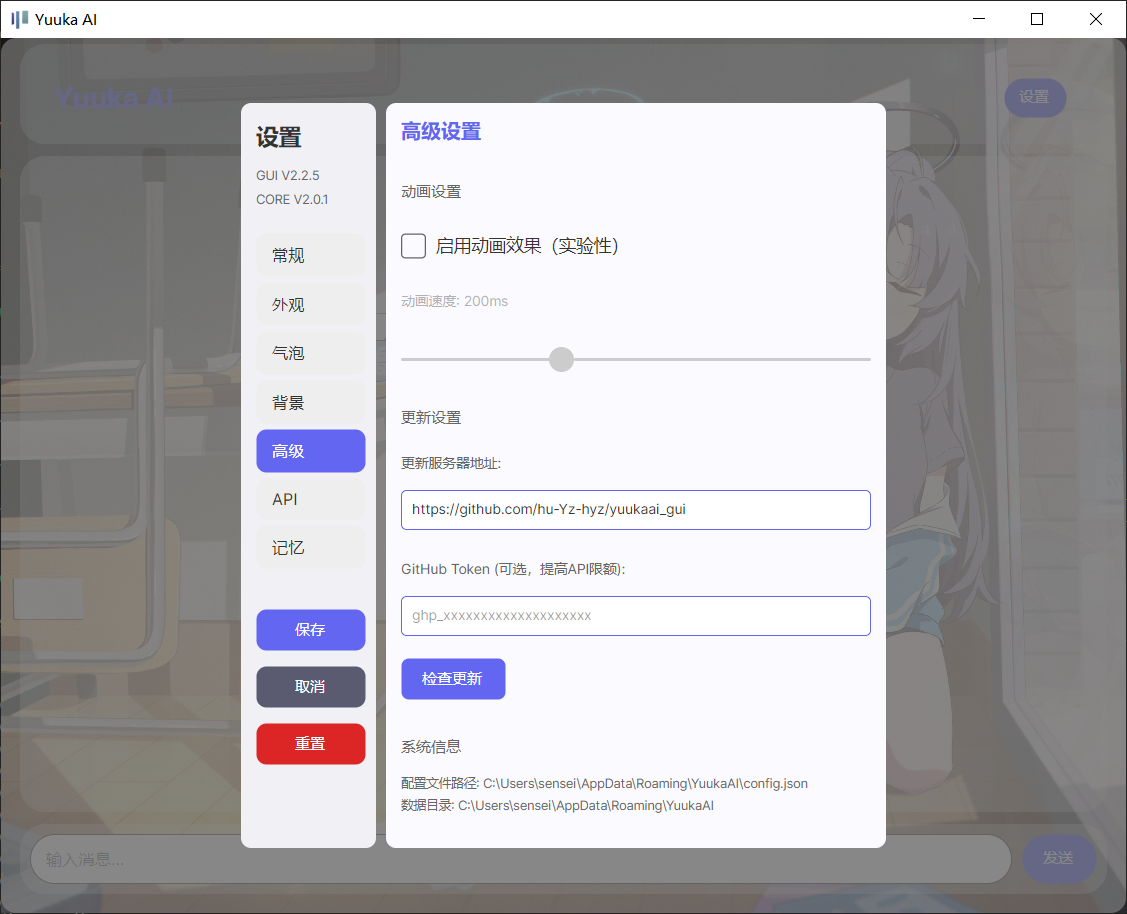
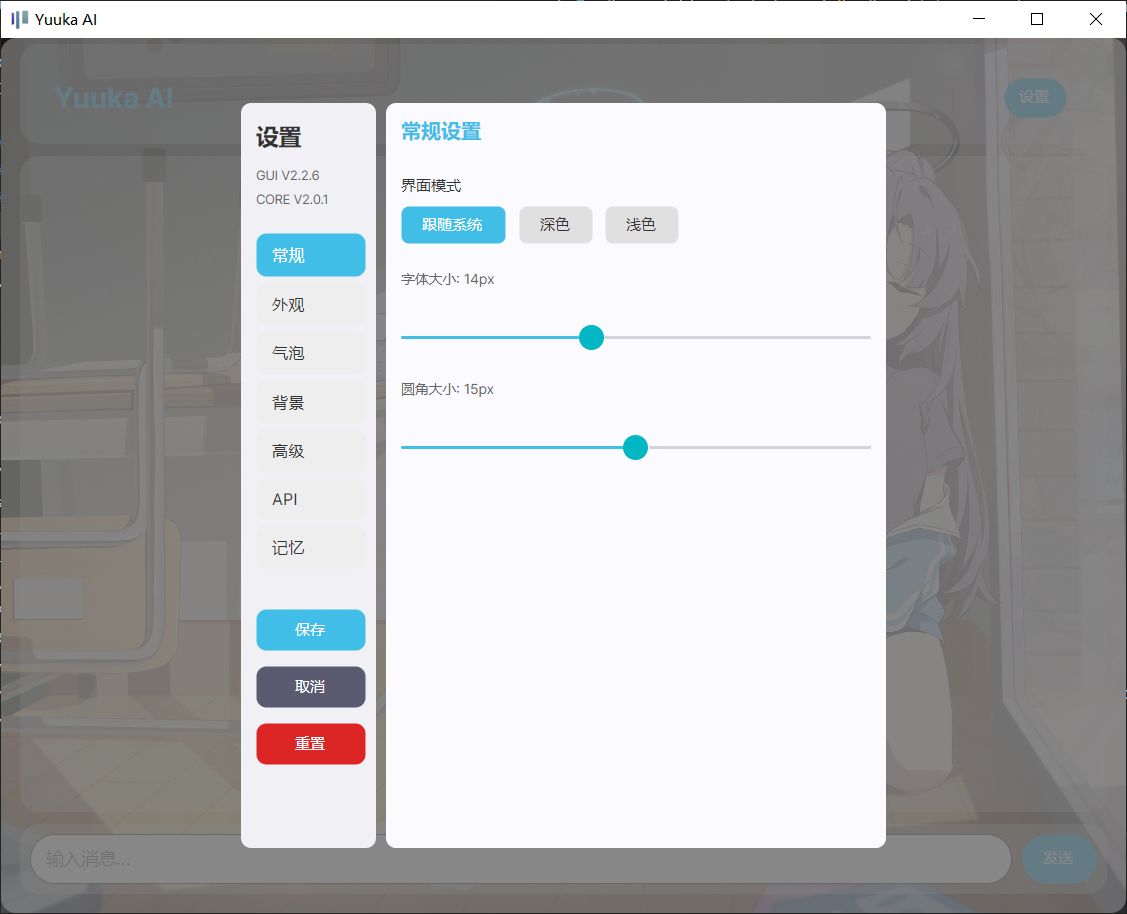
CORE V2.0.1 |GUI V2.2.6 |zh-CN

diff --git a/Core/Client.cs b/Core/Client.cs
@@ -135,7 +135,7 @@ namespace yuukaaigui.Core
                 }
                 else
                 {
-                    throw new Exception($"API请求失败，可能是过时的版本 也可能是自定义APIKEY错误 当前CORE版本V2.0.1 GUI版本 V2.2.5 : {response.StatusCode} - {responseContent}");
+                    throw new Exception($"API请求失败，可能是过时的版本 也可能是自定义APIKEY错误 当前CORE版本V2.0.1 GUI版本 V2.2.6 : {response.StatusCode} - {responseContent}");
                 }
             }
             catch (Exception)

diff --git a/README.md b/README.md
@@ -10,6 +10,7 @@
 [![Platform](https://img.shields.io/badge/Platform-Windows%7CLinux%7CmacOS%7CAndroid-blue)](https://github.com/hu-Yz-hyz/yuukaai_gui)
 [![BlueArchive](https://img.shields.io/badge/Blue%20Archive-YUUKA-%235BA3E8?style=flat)](https://bluearchive-cn.com/)
 
+
 > 🌸 与千年科学学园研讨会会计早濑优香（Hayase Yuuka）在图形界面中聊天
 
 <div align="center">
@@ -138,6 +139,12 @@ yuukaaigui/
 - 记忆系统配置（三层记忆架构）
 
 ## 📝 更新日志
+
+### GUI V2.2.6
+-  优化设定内容
+-  优化UI
+-  添加界面模式中系统跟随选项
+-  注：此版本支持跨平台但需自行构建
 
 ### GUI V2.2.5
 -  调整图标
